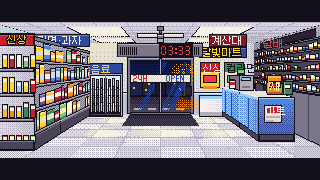
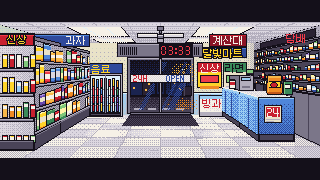
Store art: every sign reads cleanly. Wall posters wide enough for 신상 and 라면, 담배 centred on its board, 달빛마트 no longer clipped, the snack aisle sign clear of the shelf edge (과자), the freezer says 빙과 in the part you can see, the counter poster says 24, the register display moved off the poster, and the
Claude-Session: https://claude.ai/code/session_01WFu8JMBNif9aRjYRi4x9XZ

diff --git a/art/src/build_bg_interior.py b/art/src/build_bg_interior.py
@@ -443,14 +443,14 @@ def store_back_stuff(img):
     xb, yb = pt(1.75, 150, -22)
     rct(img, xa, ya, xb - xa + 1, yb - ya + 1, "blue1", "ink")
     hl(img, xa + 1, xb - 1, ya + 1, "blue2")
-    text(img, xa + 3, ya, "달빛마트", "yellow", 9, edge="ink")
+    text(img, (xa + xb) // 2 + 1, ya + 1, "달빛마트", "yellow", 9, edge="ink", align="center")
     # posters
-    for (X0, X1, c1, c2, s, tc) in [(70, 104, "red2", "yellow", "신상", "white"), (112, 146, "green1", "wall1", "컵라면", "ink")]:
+    for (X0, X1, c1, c2, s, tc) in [(64, 106, "red2", "yellow", "신상", "white"), (110, 150, "green1", "wall1", "라면", "ink")]:
         xa, ya = pt(1.75, X0, -14)
         xb, yb = pt(1.75, X1, 30)
         rct(img, xa, ya, xb - xa + 1, yb - ya + 1, c2, "ink")
         rect(img, xa + 1, ya + 1, xb - xa - 1, 9, c1)
-        text(img, xa + 3, ya + 1, s, tc, 9)
+        text(img, (xa + xb) // 2 + 1, ya + 1, s, tc, 9, align="center")
         rect(img, xa + 3, ya + 13, xb - xa - 5, 8, LIGHT.get(c1, c1), "ink")
         rect(img, xa + 3, ya + 24, xb - xa - 5, 3, DARK.get(c2, c2))
     # ice-cream chest freezer
@@ -460,8 +460,8 @@ def store_back_stuff(img):
     rect(img, xa + 1, ya + 1, xb - xa - 1, 3, "blue3")
     rect(img, xa + 1, yb - 4, xb - xa - 1, 4, "grey3")
     vl(img, (xa + xb) // 2, ya + 4, yb - 4, "grey3")
-    text(img, xa + 3, ya + 3, "아이스", "red2", 9)
     dither_grad(img, (xa + 1, ya + 4, xb, yb - 4), "white", "grey4", "x", 4, 0.0, 0.8)
+    text(img, xa + 3, ya + 3, "빙과", "red2", 9)      # the counter hides the rest of the freezer
     # gum / small shelf items skipped; clutter: leaning mop sign (wet floor) left of chest
     return
 
@@ -578,8 +578,8 @@ def cig_wall(img):
         q3(img, [(1.0, X, Yb), (ZW, X, Yb), (ZW, X, Yb + 2), (1.0, X, Yb + 2)], "grey2", "ink")
     # lit header sign
     q3(img, [(1.1, X, -46), (1.7, X, -46), (1.7, X, -37), (1.1, X, -37)], "ink2", "ink")
-    x, y = pt(1.45, X, -45)
-    text(img, x - 14, y - 1, "담배", "red3", 9)
+    x, y = pt(1.25, X, -45)
+    text(img, x, y - 1, "담배", "red3", 9, align="center")
     # lower: dark cabinet doors behind the counter
     q3(img, [(1.0, X, 27), (ZW, X, 27), (ZW, X, FLOOR), (1.0, X, FLOOR)], "grey2", "ink")
     for z in [1.15 + 0.15 * k for k in range(5)]:
@@ -617,10 +617,10 @@ def counter_body(img, near):
         rect(img, xa + 1, yb - 7, xb - xa - 1, 7, "grey1", "ink")
         # end-panel poster
         rect(img, xa + 6, ya + 8, 18, 18, "wall1", "ink")
-        rect(img, xa + 8, ya + 10, 14, 6, "red2")
-        text(img, xa + 8, ya + 9, "마트", "white", 9)
-        rect(img, xa + 8, ya + 19, 14, 2, "grey3")
-        rect(img, xa + 8, ya + 23, 8, 2, "grey3")
+        rect(img, xa + 8, ya + 10, 14, 10, "red2")
+        text(img, xa + 15, ya + 10, "24", "white", 9, align="center")
+        rect(img, xa + 8, ya + 22, 14, 1, "grey3")
+        rect(img, xa + 8, ya + 24, 8, 1, "grey3")
 
 
 def register(img):
@@ -632,7 +632,7 @@ def register(img):
     rect(img, xa + 2, ya + 2, xb - xa - 4, 4, "blue3", "ink")
     rect(img, xa + 3, yb - 4, xb - xa - 6, 2, "grey2")
     # customer display on a stalk
-    xs, ys = pt(1.6, 123, -2)
+    xs, ys = pt(1.6, 137, -2)      # right end of the register, clear of the ramen poster behind it
     rect(img, xs, ys, 8, 6, "ink2", "ink")
     rect(img, xs + 1, ys + 1, 6, 3, "green2")
     vl(img, xs + 4, ys + 6, ys + 9, "grey2")
@@ -657,7 +657,6 @@ def snack_bag(img):
         px(img, xx, y - 1, "ink")
     rect(img, x - 6, y - 14, 13, 7, "yellow", "ink")
     ellipse(img, x - 4, y - 13, x + 3, y - 8, "red2", "ink")
-    text(img, x - 4, y - 14, "새", "yellow2", 9)
     vl(img, x - 6, y - 17, y - 3, "orange3")
     hl(img, x - 6, x + 6, y - 3, "orange1")
     hl(img, x - 6, x + 6, y - 2, "orange1")
@@ -668,7 +667,7 @@ def snack_bag(img):
 
 
 def hanging_signs(img):
-    for (X0, X1, z, s, bg) in [(-168, -92, 1.3, "라면·과자", "blue1"), (64, 112, 1.3, "계산대", "red1")]:
+    for (X0, X1, z, s, bg) in [(-168, -92, 1.3, "과자", "blue1"), (64, 112, 1.3, "계산대", "red1")]:
         xa, ya = pt(z, X0, -47)
         xb, yb = pt(z, X1, -31)
         yc = pt(z, 0, CEIL)[1]
@@ -676,7 +675,8 @@ def hanging_signs(img):
         vl(img, xb - 3, yc, ya, "ink")
         rct(img, xa, ya, xb - xa + 1, yb - ya + 1, bg, "ink")
         hl(img, xa + 1, xb - 1, ya + 1, LIGHT.get(bg, bg))
-        text(img, (xa + xb) // 2, ya + 1, s, "white", 9, align="center")
+        # the near shelf's top edge cuts across the left end of the snack sign: centre on the part you can see
+        text(img, (max(xa, 62) + xb) // 2 + 1, ya + 1, s, "white", 9, align="center")
 
 
 def store_extras_day(img):
